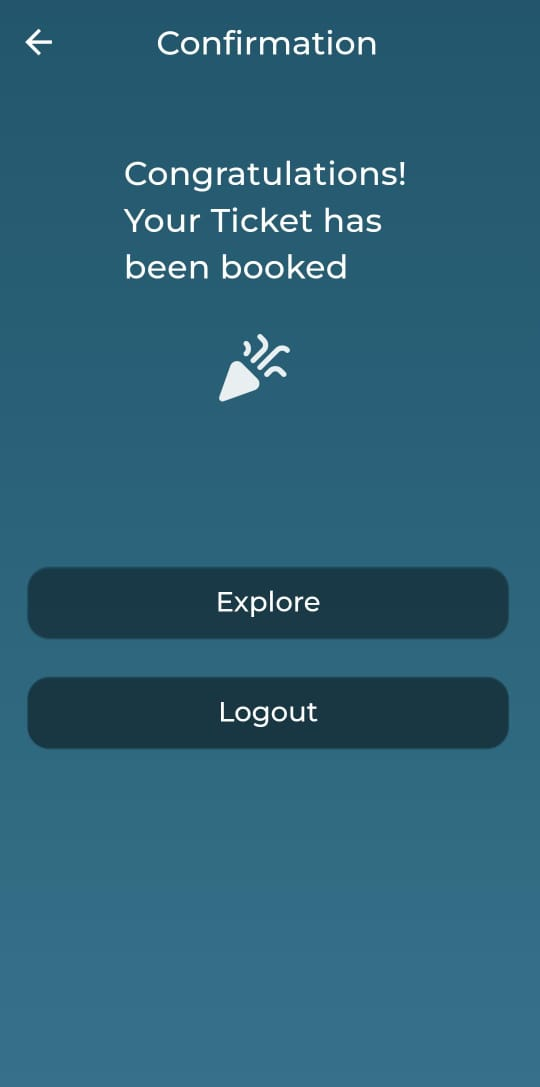
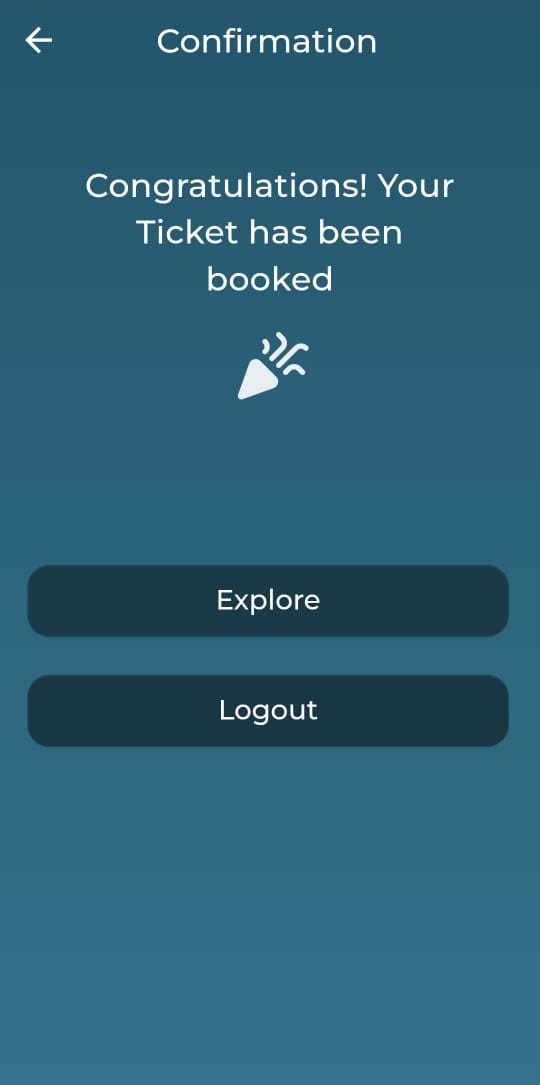
UI & Readme Changes

diff --git a/lib/congratulation.dart b/lib/congratulation.dart
@@ -54,24 +54,33 @@ class _congratulationState extends State<congratulation> {
             clipBehavior: Clip.none,
             children: [
               Positioned(
-                  left: 90,
-                  top: 50,
-                  right: 60,
+                left: 60,
+                right: 60,
+                top: 60,
+                child: Center(
                   child: Text(
-                    'Congratulations!  Your Ticket has been booked',
+                    'Congratulations! Your Ticket has been booked',
+                    textAlign: TextAlign.center,
                     style: GoogleFonts.montserrat(
-                        color: Colors.white,
-                        fontSize: 24,
-                        fontWeight: FontWeight.w500),
-                  )),
-              const Positioned(
-                  top: 180,
-                  right: 180,
+                      color: Colors.white,
+                      fontSize: 24,
+                      fontWeight: FontWeight.w500,
+                    ),
+                  ),
+                ),
+              ),
+              Positioned(
+                top: 180,
+                left: 0,
+                right: 0,
+                child: Center(
                   child: Icon(
                     Icons.celebration_rounded,
                     size: 60,
                     color: Color.fromARGB(229, 255, 255, 255),
-                  )),
+                  ),
+                ),
+              ),
               // Positioned(
               //     bottom: 350,
               //     child: Container(

diff --git a/lib/transport.dart b/lib/transport.dart
@@ -80,7 +80,7 @@ class _TransportState extends State<Transport> {
                       ClipRRect(
                         borderRadius: BorderRadius.circular(30),
                         child: Image.network(
-                          'https://images.unsplash.com/photo-1567312955700-59d1f67bd6e1?ixlib=rb-4.0.3&ixid=MnwxMjA3fDB8MHxzZWFyY2h8M3x8aW5kaWFuJTIwcmFpbHdheXxlbnwwfHwwfHw%3D&auto=format&fit=crop&w=500&q=60',
+                          'https://img.freepik.com/premium-photo/train-is-traveling-down-tracks-sunset_1132399-926.jpg?ga=GA1.1.1737824719.1711056396&semt=sph',
                           height: 220,
                           width: 220,
                           fit: BoxFit.fill,
@@ -131,7 +131,7 @@ class _TransportState extends State<Transport> {
                       ClipRRect(
                         borderRadius: BorderRadius.circular(30),
                         child: Image.network(
-                          'https://images.unsplash.com/photo-1663510254237-3c12fc7a1046?ixlib=rb-4.0.3&ixid=MnwxMjA3fDB8MHxwcm9maWxlLXBhZ2V8NXx8fGVufDB8fHx8&auto=format&fit=crop&w=500&q=60',
+                          'https://img.freepik.com/premium-photo/aircraft-is-flying-islands-sea-sunrise-summer-landscape-with-white-passenger-airplane_159067-617.jpg?ga=GA1.1.1737824719.1711056396&semt=sph',
                           height: 220,
                           width: 220,
                           fit: BoxFit.fill,

diff --git a/lib/registration.dart b/lib/registration.dart
@@ -488,13 +488,12 @@ class _RegistrationState extends State<Registration> {
                       padding: const EdgeInsets.only(top: 50),
                       child: Text(
                         'Registration',
-                        style: TextStyle(
-                          letterSpacing: 1,
-                          wordSpacing: 5,
-                          fontSize: 30,
-                          fontWeight: FontWeight.w400,
-                          color: const Color(0xffFFFFFF),
-                        ),
+                        style: GoogleFonts.montserrat(
+                            letterSpacing: 1,
+                            wordSpacing: 5,
+                            fontSize: 30,
+                            fontWeight: FontWeight.w500,
+                            color: const Color(0xffFFFFFF)),
                         // style: GoogleFonts.montserrat(
                         //   letterSpacing: 1,
                         //   wordSpacing: 5,

diff --git a/lib/upi.dart b/lib/upi.dart
@@ -40,7 +40,7 @@ class _upiState extends State<upi> {
             backgroundColor: Colors.transparent,
             title: Center(
                 child: Text(
-              ' Payment Gateway',
+              'UPI',
               style: GoogleFonts.montserrat(
                   fontSize: 24, fontWeight: FontWeight.w500, color: Colors.white),
             )),
